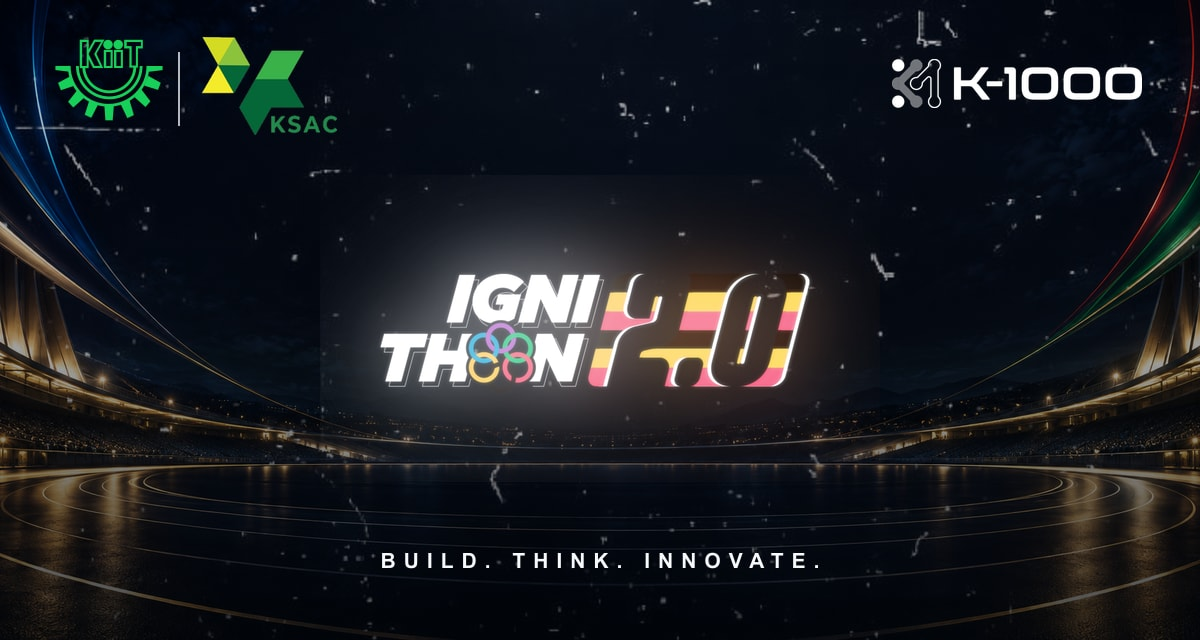
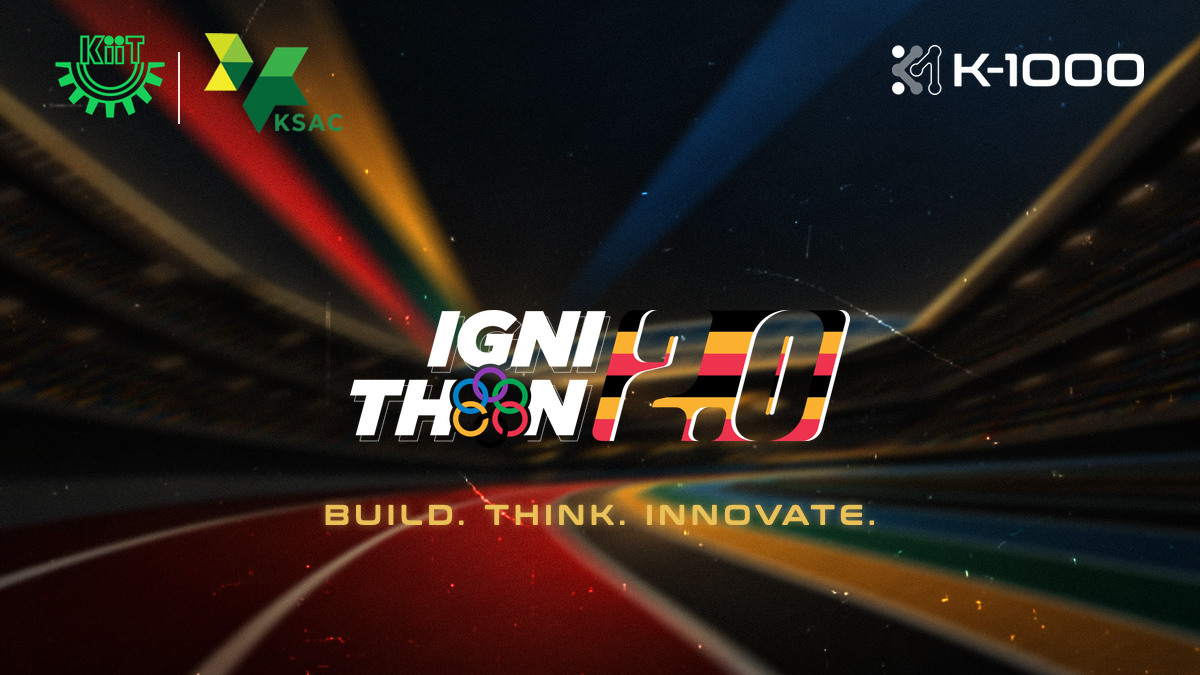
fix: Refine Ignithon email responsiveness
- Use the new branded Ignithon email banner

- Fix phone card widths and narrow desktop overflow

- Align footer branding and mobile social links

- Route hosted email assets through the preview deployment

diff --git a/emails/ignithon-2-invite.html b/emails/ignithon-2-invite.html
@@ -20,7 +20,7 @@
         font-family: "Conthrax";
         font-style: normal;
         font-weight: 600;
-        src: url("https://k1000.kiit.ac.in/fonts/conthrax-sb.otf") format("opentype");
+        src: url("https://k1000-preview.vercel.app/fonts/conthrax-sb.otf") format("opentype");
       }
 
       html,
@@ -28,12 +28,23 @@
         margin: 0 !important;
         padding: 0 !important;
         width: 100% !important;
+        max-width: 100% !important;
         height: 100% !important;
       }
 
       table,
       td {
         border-collapse: collapse !important;
+        box-sizing: border-box !important;
+      }
+
+      table {
+        max-width: 100%;
+      }
+
+      .content-grid {
+        width: 100% !important;
+        table-layout: fixed !important;
       }
 
       img {
@@ -59,9 +70,43 @@
         mso-hide: all;
       }
 
+      @media screen and (min-width: 661px) {
+        .email-shell {
+          width: 100% !important;
+          max-width: 1200px !important;
+          table-layout: fixed !important;
+        }
+
+        .desktop-frame {
+          padding-left: 8px !important;
+          padding-right: 8px !important;
+        }
+      }
+
+      @media screen and (min-width: 661px) and (max-width: 960px) {
+        .content-grid {
+          table-layout: auto !important;
+        }
+
+        .mobile-stack,
+        .mobile-stack td {
+          display: block !important;
+          width: 100% !important;
+          box-sizing: border-box !important;
+        }
+
+        .mobile-gap {
+          height: 12px !important;
+        }
+      }
+
       @media screen and (max-width: 660px) {
         .email-shell {
           width: 100% !important;
+        }
+
+        .content-grid {
+          table-layout: auto !important;
         }
 
         .mobile-pad {
@@ -119,6 +164,14 @@
         .footer-k1000 {
           width: 115px !important;
         }
+
+        .social-item {
+          display: block !important;
+        }
+
+        .social-divider {
+          display: none !important;
+        }
       }
     </style>
   </head>
@@ -127,15 +180,15 @@
 
     <table role="presentation" width="100%" cellspacing="0" cellpadding="0" border="0" style="width: 100%; background-color: #e9edf1;">
       <tr>
-        <td align="center" style="padding: 28px 12px;">
-          <table class="email-shell" role="presentation" width="100%" cellspacing="0" cellpadding="0" border="0" style="width: 100%; max-width: 640px; background-color: #05080c;">
+        <td class="desktop-frame" align="center" style="padding: 28px 12px;">
+          <table class="email-shell" role="presentation" width="100%" cellspacing="0" cellpadding="0" border="0" style="width: 100%; max-width: 1200px; table-layout: fixed; background-color: #05080c;">
             <tr>
               <td>
                 <img
-                  src="https://k1000.kiit.ac.in/email/ignithon2/hero.jpg"
-                  width="640"
+                  src="https://k1000-preview.vercel.app/email/ignithon2/hero.jpg"
+                  width="100%"
                   alt="IGNITHON 2.0 by KIIT, KSAC, and K-1000"
-                  style="width: 100%; max-width: 640px;"
+                  style="width: 100%; max-width: 100%;"
                 />
               </td>
             </tr>
@@ -159,7 +212,7 @@
 
             <tr>
               <td class="mobile-pad" style="padding: 20px 48px 10px;">
-                <table role="presentation" width="100%" cellspacing="0" cellpadding="0" border="0">
+                <table class="content-grid" role="presentation" width="100%" cellspacing="0" cellpadding="0" border="0">
                   <tr class="mobile-stack">
                     <td width="32%" valign="top" style="width: 32%; padding: 22px 16px; border: 1px solid #26303a; background-color: #0b1118; text-align: center;">
                       <p style="margin: 0 0 8px; color: #e4b448; font-family: 'Conthrax', Arial, Helvetica, sans-serif; font-size: 11px; font-weight: 700; letter-spacing: 2px; text-transform: uppercase;">Teams</p>
@@ -191,7 +244,7 @@
 
             <tr>
               <td class="mobile-pad" style="padding: 14px 48px 12px;">
-                <table role="presentation" width="100%" cellspacing="0" cellpadding="0" border="0">
+                <table class="content-grid" role="presentation" width="100%" cellspacing="0" cellpadding="0" border="0">
                   <tr>
                     <td style="padding: 24px 24px; border-left: 4px solid #d94c43; background-color: #0b1118;">
                       <p style="margin: 0 0 6px; color: #e66a60; font-family: 'Conthrax', Arial, Helvetica, sans-serif; font-size: 11px; font-weight: 700; letter-spacing: 3px; text-transform: uppercase;">Think</p>
@@ -202,7 +255,7 @@
                   <tr>
                     <td style="padding: 24px 24px; border-left: 4px solid #e4b448; background-color: #0b1118;">
                       <p style="margin: 0 0 6px; color: #e4b448; font-family: 'Conthrax', Arial, Helvetica, sans-serif; font-size: 11px; font-weight: 700; letter-spacing: 3px; text-transform: uppercase;">Build</p>
-                      <h3 class="phase-title" style="margin: 0; color: #ffffff; font-family: 'Conthrax', Arial, Helvetica, sans-serif; font-size: 23px; line-height: 30px; font-weight: 800;">Development</h3>
+                      <h3 class="phase-title" style="margin: 0; color: #ffffff; font-family: 'Conthrax', Arial, Helvetica, sans-serif; font-size: 23px; line-height: 30px; font-weight: 800;">Development & Fixing</h3>
                     </td>
                   </tr>
                   <tr><td height="10" style="height: 10px; font-size: 1px; line-height: 1px;">&nbsp;</td></tr>
@@ -218,7 +271,7 @@
 
             <tr>
               <td class="mobile-pad" style="padding: 34px 48px 12px;">
-                <table role="presentation" width="100%" cellspacing="0" cellpadding="0" border="0">
+                <table class="content-grid" role="presentation" width="100%" cellspacing="0" cellpadding="0" border="0">
                   <tr class="mobile-stack">
                     <td width="49%" valign="top" style="width: 49%; padding: 22px; border: 1px solid #26303a;">
                       <p style="margin: 0 0 8px; color: #e4b448; font-family: 'Conthrax', Arial, Helvetica, sans-serif; font-size: 12px; font-weight: 700; letter-spacing: 2px; text-transform: uppercase;">Certificate</p>
@@ -227,7 +280,7 @@
                     <td class="mobile-gap" width="2%" style="width: 2%;">&nbsp;</td>
                     <td width="49%" valign="top" style="width: 49%; padding: 22px; border: 1px solid #26303a;">
                       <p style="margin: 0 0 8px; color: #e4b448; font-family: 'Conthrax', Arial, Helvetica, sans-serif; font-size: 12px; font-weight: 700; letter-spacing: 2px; text-transform: uppercase;">Opportunity</p>
-                      <p style="margin: 0; color: #ffffff; font-family: 'Conthrax', Arial, Helvetica, sans-serif; font-size: 16px; line-height: 24px; font-weight: 700;">Top teams can earn a chance to join K-1000</p>
+                      <p style="margin: 0; color: #ffffff; font-family: 'Conthrax', Arial, Helvetica, sans-serif; font-size: 16px; line-height: 24px; font-weight: 700;">Top teams earn a chance to join K-1000</p>
                     </td>
                   </tr>
                   <tr><td colspan="3" height="12" style="height: 12px; font-size: 1px; line-height: 1px;">&nbsp;</td></tr>
@@ -273,7 +326,7 @@
                   <tr>
                     <td align="center" style="padding: 18px;">
                       <img
-                        src="https://k1000.kiit.ac.in/email/ignithon2/registration-qr.png"
+                        src="https://k1000-preview.vercel.app/email/ignithon2/registration-qr.png"
                         width="264"
                         alt="QR code to register for IGNITHON 2.0"
                         style="width: 264px; max-width: 100%;"
@@ -299,20 +352,22 @@
 
             <tr>
               <td class="mobile-pad" style="padding: 32px 48px 38px; text-align: center;">
-                <table class="footer-logos" role="presentation" width="370" align="center" cellspacing="0" cellpadding="0" border="0" style="width: 370px; max-width: 100%;">
+                <table class="footer-logos" role="presentation" width="420" align="center" cellspacing="0" cellpadding="0" border="0" style="width: 420px; max-width: 100%; table-layout: fixed;">
                   <tr>
-                    <td align="center" valign="middle" style="padding: 0 14px;">
-                      <img class="footer-kiit" src="https://k1000.kiit.ac.in/email/ignithon2/kiit-logo.png" width="58" alt="KIIT" style="width: 58px;" />
+                    <td width="33.33%" align="center" valign="middle" style="width: 33.33%; padding: 0 8px;">
+                      <img class="footer-kiit" src="https://k1000-preview.vercel.app/email/ignithon2/kiit-logo.png" width="58" alt="KIIT" style="width: 58px; margin: 0 auto;" />
                     </td>
-                    <td align="center" valign="middle" style="padding: 0 14px;">
-                      <img class="footer-ksac" src="https://k1000.kiit.ac.in/email/ignithon2/ksac-logo.png" width="78" alt="KSAC" style="width: 78px;" />
+                    <td width="33.33%" align="center" valign="middle" style="width: 33.33%; padding: 0 8px;">
+                      <img class="footer-ksac" src="https://k1000-preview.vercel.app/email/ignithon2/ksac-logo.png" width="78" alt="KSAC" style="width: 78px; margin: 0 auto;" />
                     </td>
-                    <td align="center" valign="middle" style="padding: 0 14px;">
-                      <img class="footer-k1000" src="https://k1000.kiit.ac.in/email/ignithon2/k1000-logo.png" width="150" alt="K-1000" style="width: 150px;" />
+                    <td width="33.33%" align="center" valign="middle" style="width: 33.33%; padding: 0 8px;">
+                      <img class="footer-k1000" src="https://k1000-preview.vercel.app/email/ignithon2/k1000-logo.png" width="150" alt="K-1000" style="width: 150px; max-width: 100%; margin: 0 auto;" />
                     </td>
                   </tr>
                 </table>
-                <p style="margin: 22px 0 5px; color: #c5ced7; font-family: 'Conthrax', Arial, Helvetica, sans-serif; font-size: 13px; line-height: 21px;">Instagram: @k1000-kiit &nbsp; | &nbsp; LinkedIn: k1000-kiit</p>
+                <p style="margin: 22px 0 5px; color: #c5ced7; font-family: 'Conthrax', Arial, Helvetica, sans-serif; font-size: 13px; line-height: 21px;">
+                  <span class="social-item">Instagram: @k1000-kiit</span><span class="social-divider"> &nbsp;|&nbsp; </span><span class="social-item">LinkedIn: k1000-kiit</span>
+                </p>
                 <p style="margin: 0; color: #6f7a84; font-family: 'Conthrax', Arial, Helvetica, sans-serif; font-size: 11px; line-height: 18px;">K-1000, KIIT Deemed to be University</p>
               </td>
             </tr>
